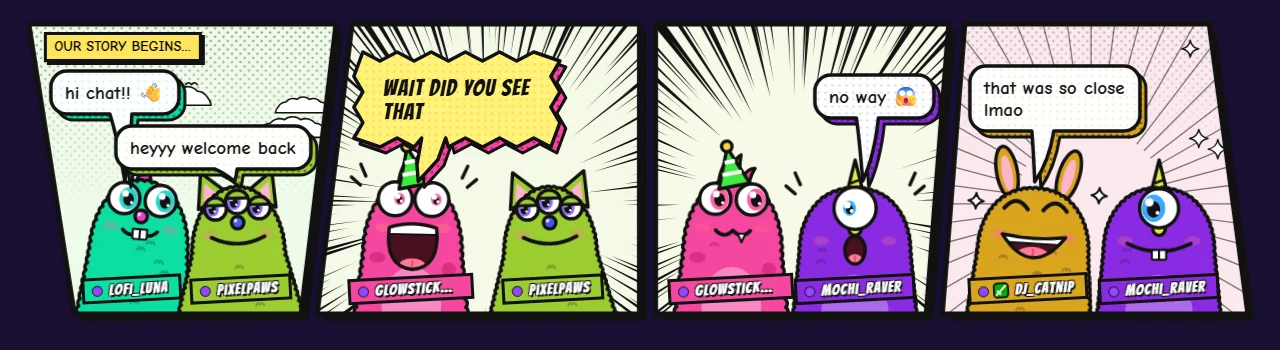
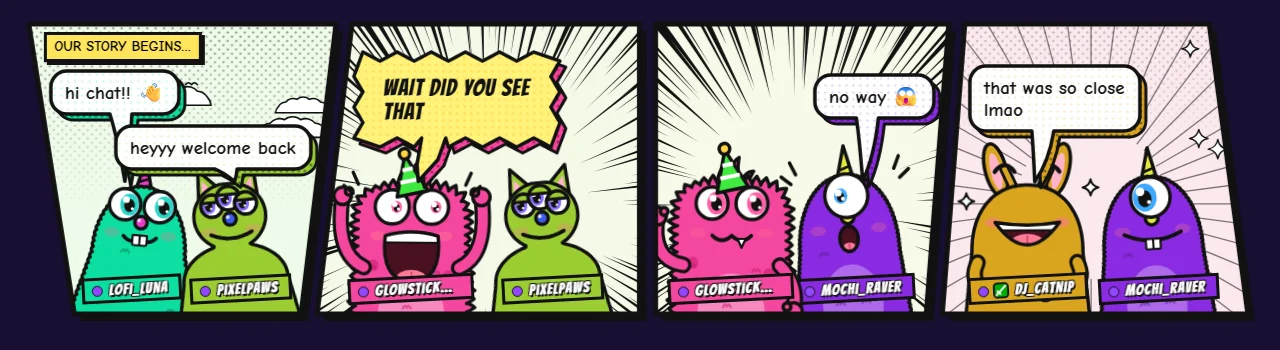
Update Chat Comics screenshots and description

diff --git a/tools/chat-comics.html b/tools/chat-comics.html
@@ -135,8 +135,14 @@
                   count too, so <code>KEKW</code>, <code>Sadge</code> and <code>PogChamp</code> all work.
                 </li>
                 <li>
-                  Monsters get one, two or three eyes, horns, antennae, bunny or cat ears, fangs, party hats and
-                  more. Their fur is their chat name color. The streamer wears a crown. 👑
+                  No two monsters are alike: round, tall, boxy, bell-shaped or peanut-shaped bodies, fur from smooth
+                  felt to shaggy, one, two or three eyes, horns, antennae, bunny or cat ears, fangs, party hats,
+                  tees, hoodies, sweaters, overalls, bow ties and scarves. Their fur is their chat name color. The
+                  streamer wears a crown. 👑
+                </li>
+                <li>
+                  Monsters with arms act it out: waving while they talk, hands up when shocked, fists when angry,
+                  hands clasped for love, scratching their head when confused.
                 </li>
                 <li>
                   When a mod deletes a message or bans someone, their bubble gets blacked out with a red

diff --git a/index.html b/index.html
@@ -162,7 +162,7 @@
             <div class="shot">
               <img
                 src="assets/img/chat-comics-card.webp"
-                alt="Two slanted manga panels of fuzzy monsters: two say hi in front of a cloudy sky, then a pink one shouts WAIT DID YOU SEE THAT over speed lines"
+                alt="Two slanted manga panels of fuzzy monsters: two say hi in front of a cloudy sky, then a shaggy pink one throws its arms up and shouts WAIT DID YOU SEE THAT over speed lines"
                 width="760"
                 height="380"
                 loading="lazy"
